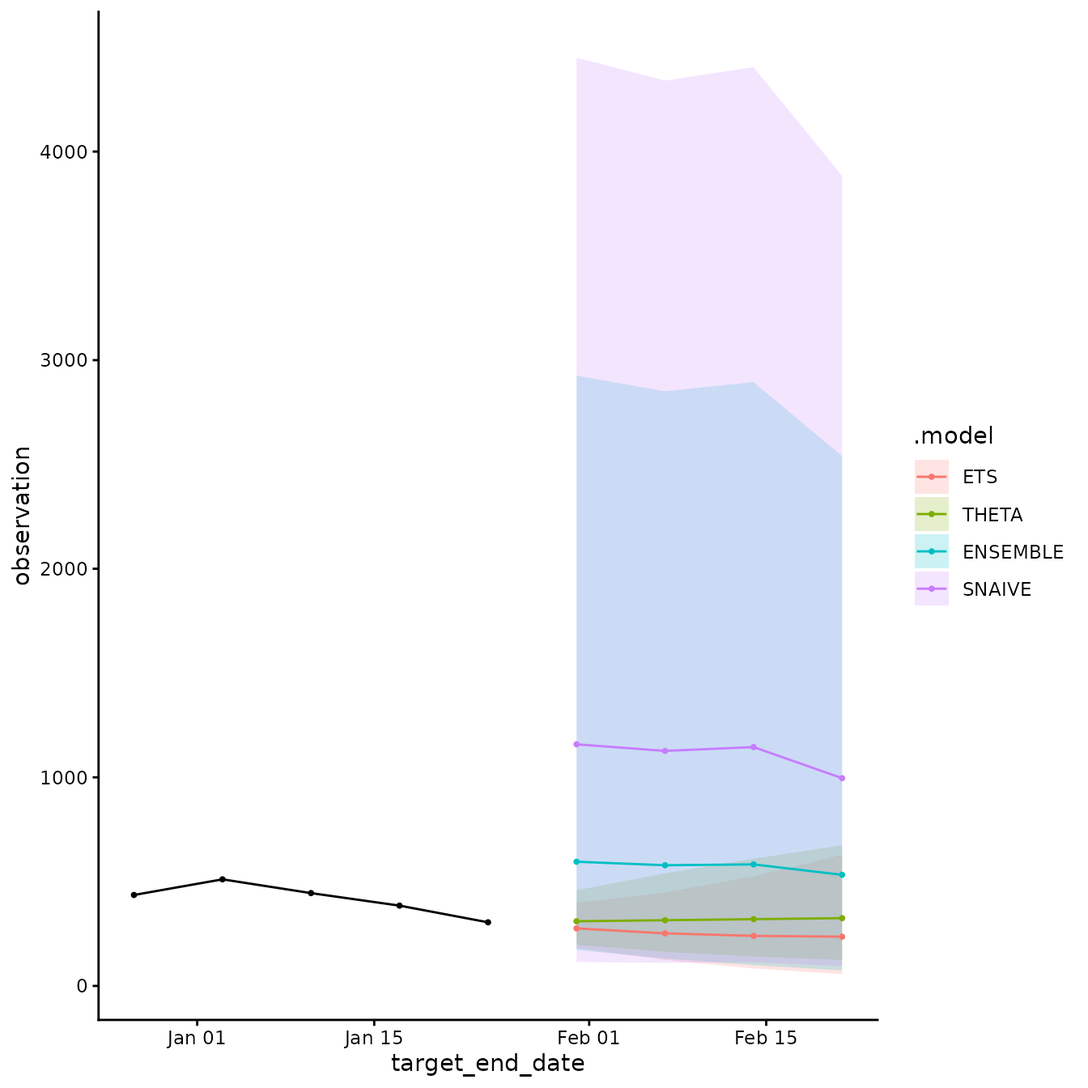
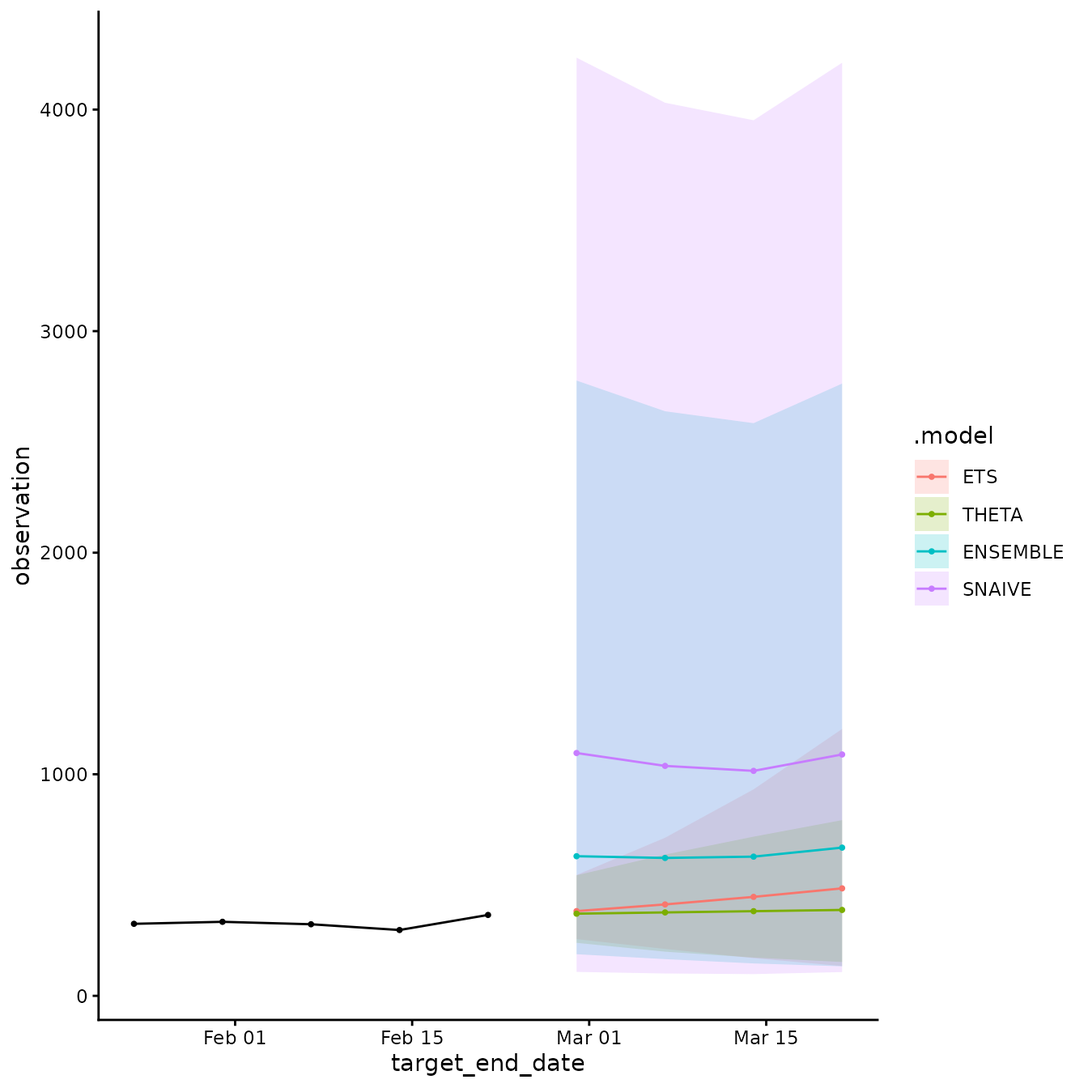
Deploying to gh-pages from @ ACCIDDA/acciddasuite@45f4608e82b950764b4ee29997958c1c10f59f7f 🚀

diff --git a/articles/acciddasuite.html b/articles/acciddasuite.html
@@ -104,21 +104,18 @@ National Health Safety Network</a>. The data dictionary is available <a href="ht
 <span><span class="kw"><a href="https://rdrr.io/r/base/library.html" class="external-link">library</a></span><span class="op">(</span><span class="va"><a href="https://cygei.github.io/pipetime/;" class="external-link">pipetime</a></span><span class="op">)</span></span>
 <span><span class="kw"><a href="https://rdrr.io/r/base/library.html" class="external-link">library</a></span><span class="op">(</span><span class="va"><a href="https://github.com/ACCIDDA/accidasuite" class="external-link">acciddasuite</a></span><span class="op">)</span></span>
 <span><span class="va">df</span> <span class="op">&lt;-</span> <span class="fu"><a href="../reference/get_data.html">get_data</a></span><span class="op">(</span>pathogen <span class="op">=</span> <span class="st">"covid"</span>, geo_values <span class="op">=</span> <span class="st">"ny"</span><span class="op">)</span></span>
-<span><span class="fu"><a href="https://rdrr.io/r/base/summary.html" class="external-link">summary</a></span><span class="op">(</span><span class="va">df</span><span class="op">)</span></span>
-<span><span class="co">#&gt;      as_of              location            target         </span></span>
-<span><span class="co">#&gt;  Min.   :2026-01-25   Length:286         Length:286        </span></span>
-<span><span class="co">#&gt;  1st Qu.:2026-01-25   Class :character   Class :character  </span></span>
-<span><span class="co">#&gt;  Median :2026-01-25   Mode  :character   Mode  :character  </span></span>
-<span><span class="co">#&gt;  Mean   :2026-01-25                                        </span></span>
-<span><span class="co">#&gt;  3rd Qu.:2026-01-25                                        </span></span>
-<span><span class="co">#&gt;  Max.   :2026-01-25                                        </span></span>
-<span><span class="co">#&gt;  target_end_date       observation     </span></span>
-<span><span class="co">#&gt;  Min.   :2020-08-08   Min.   :   60.0  </span></span>
-<span><span class="co">#&gt;  1st Qu.:2021-12-19   1st Qu.:  461.2  </span></span>
-<span><span class="co">#&gt;  Median :2023-05-02   Median :  995.0  </span></span>
-<span><span class="co">#&gt;  Mean   :2023-05-02   Mean   : 1644.0  </span></span>
-<span><span class="co">#&gt;  3rd Qu.:2024-09-12   3rd Qu.: 2241.8  </span></span>
-<span><span class="co">#&gt;  Max.   :2026-01-24   Max.   :11833.0</span></span></code></pre></div>
+<span><span class="fu"><a href="https://rdrr.io/r/utils/head.html" class="external-link">head</a></span><span class="op">(</span><span class="va">df</span><span class="op">)</span></span>
+<span><span class="co">#&gt; <span style="color: #949494;"># A tibble: 6 × 5</span></span></span>
+<span><span class="co">#&gt;   as_of      location target            target_end_date observation</span></span>
+<span><span class="co">#&gt;   <span style="color: #949494; font-style: italic;">&lt;date&gt;</span>     <span style="color: #949494; font-style: italic;">&lt;chr&gt;</span>    <span style="color: #949494; font-style: italic;">&lt;chr&gt;</span>             <span style="color: #949494; font-style: italic;">&lt;date&gt;</span>                <span style="color: #949494; font-style: italic;">&lt;dbl&gt;</span></span></span>
+<span><span class="co">#&gt; <span style="color: #BCBCBC;">1</span> 2026-02-22 NY       wk inc covid hosp 2020-08-08              517</span></span>
+<span><span class="co">#&gt; <span style="color: #BCBCBC;">2</span> 2026-02-22 NY       wk inc covid hosp 2020-08-15              490</span></span>
+<span><span class="co">#&gt; <span style="color: #BCBCBC;">3</span> 2026-02-22 NY       wk inc covid hosp 2020-08-22              844</span></span>
+<span><span class="co">#&gt; <span style="color: #BCBCBC;">4</span> 2026-02-22 NY       wk inc covid hosp 2020-08-29              483</span></span>
+<span><span class="co">#&gt; <span style="color: #BCBCBC;">5</span> 2026-02-22 NY       wk inc covid hosp 2020-09-05              479</span></span>
+<span><span class="co">#&gt; <span style="color: #BCBCBC;">6</span> 2026-02-22 NY       wk inc covid hosp 2020-09-12              573</span></span></code></pre></div>
+<p>To look at what <code>df</code> looks like, you can access the
+example <code>csv</code> file here: <a href="%22https://raw.githubusercontent.com/acciddasuite/main/example_data.csv%22" class="external-link">df.csv</a>.</p>
 </div>
 <div class="section level3">
 <h3 id="time-series-cross-validation">Time Series Cross-Validation<a class="anchor" aria-label="anchor" href="#time-series-cross-validation"></a>
@@ -174,14 +171,14 @@ Integrated Moving Average model (automatically selected).</p>
 <span><span class="co">#&gt; Models evaluated:</span></span>
 <span><span class="co">#&gt;  model_id       wis</span></span>
 <span><span class="co">#&gt;    &lt;char&gt;     &lt;num&gt;</span></span>
-<span><span class="co">#&gt;       ETS  39.50977</span></span>
-<span><span class="co">#&gt;     THETA  43.41059</span></span>
-<span><span class="co">#&gt;  ENSEMBLE  74.29495</span></span>
-<span><span class="co">#&gt;    SNAIVE 272.68963</span></span>
+<span><span class="co">#&gt;       ETS  31.84685</span></span>
+<span><span class="co">#&gt;     THETA  39.46278</span></span>
+<span><span class="co">#&gt;  ENSEMBLE  80.66361</span></span>
+<span><span class="co">#&gt;    SNAIVE 294.18118</span></span>
 <span><span class="co">#&gt; </span></span>
 <span><span class="co">#&gt; Forecast horizon:</span></span>
-<span><span class="co">#&gt;   From: 2025-12-27 </span></span>
-<span><span class="co">#&gt;   To:   2026-02-21 </span></span>
+<span><span class="co">#&gt;   From: 2026-01-24 </span></span>
+<span><span class="co">#&gt;   To:   2026-03-21 </span></span>
 <span><span class="co">#&gt; </span></span>
 <span><span class="co">#&gt; Contents:</span></span>
 <span><span class="co">#&gt;   $hubcast   hub forecast object</span></span>
@@ -195,21 +192,21 @@ Integrated Moving Average model (automatically selected).</p>
 <span><span class="co">#&gt; <span style="color: #949494;"># A tibble: 200 × 9</span></span></span>
 <span><span class="co">#&gt;    model_id reference_date target   horizon location target_end_date output_type</span></span>
 <span><span class="co">#&gt;    <span style="color: #949494; font-style: italic;">&lt;chr&gt;</span>    <span style="color: #949494; font-style: italic;">&lt;date&gt;</span>         <span style="color: #949494; font-style: italic;">&lt;chr&gt;</span>      <span style="color: #949494; font-style: italic;">&lt;int&gt;</span> <span style="color: #949494; font-style: italic;">&lt;chr&gt;</span>    <span style="color: #949494; font-style: italic;">&lt;date&gt;</span>          <span style="color: #949494; font-style: italic;">&lt;chr&gt;</span>      </span></span>
-<span><span class="co">#&gt; <span style="color: #BCBCBC;"> 1</span> ARIMA    2025-12-20     wk inc …       1 NY       2025-12-27      quantile   </span></span>
-<span><span class="co">#&gt; <span style="color: #BCBCBC;"> 2</span> ARIMA    2025-12-20     wk inc …       1 NY       2025-12-27      quantile   </span></span>
-<span><span class="co">#&gt; <span style="color: #BCBCBC;"> 3</span> ARIMA    2025-12-20     wk inc …       1 NY       2025-12-27      quantile   </span></span>
-<span><span class="co">#&gt; <span style="color: #BCBCBC;"> 4</span> ARIMA    2025-12-20     wk inc …       1 NY       2025-12-27      quantile   </span></span>
-<span><span class="co">#&gt; <span style="color: #BCBCBC;"> 5</span> ARIMA    2025-12-20     wk inc …       1 NY       2025-12-27      quantile   </span></span>
-<span><span class="co">#&gt; <span style="color: #BCBCBC;"> 6</span> ARIMA    2025-12-20     wk inc …       2 NY       2026-01-03      quantile   </span></span>
-<span><span class="co">#&gt; <span style="color: #BCBCBC;"> 7</span> ARIMA    2025-12-20     wk inc …       2 NY       2026-01-03      quantile   </span></span>
-<span><span class="co">#&gt; <span style="color: #BCBCBC;"> 8</span> ARIMA    2025-12-20     wk inc …       2 NY       2026-01-03      quantile   </span></span>
-<span><span class="co">#&gt; <span style="color: #BCBCBC;"> 9</span> ARIMA    2025-12-20     wk inc …       2 NY       2026-01-03      quantile   </span></span>
-<span><span class="co">#&gt; <span style="color: #BCBCBC;">10</span> ARIMA    2025-12-20     wk inc …       2 NY       2026-01-03      quantile   </span></span>
+<span><span class="co">#&gt; <span style="color: #BCBCBC;"> 1</span> ARIMA    2026-01-17     wk inc …       1 NY       2026-01-24      quantile   </span></span>
+<span><span class="co">#&gt; <span style="color: #BCBCBC;"> 2</span> ARIMA    2026-01-17     wk inc …       1 NY       2026-01-24      quantile   </span></span>
+<span><span class="co">#&gt; <span style="color: #BCBCBC;"> 3</span> ARIMA    2026-01-17     wk inc …       1 NY       2026-01-24      quantile   </span></span>
+<span><span class="co">#&gt; <span style="color: #BCBCBC;"> 4</span> ARIMA    2026-01-17     wk inc …       1 NY       2026-01-24      quantile   </span></span>
+<span><span class="co">#&gt; <span style="color: #BCBCBC;"> 5</span> ARIMA    2026-01-17     wk inc …       1 NY       2026-01-24      quantile   </span></span>
+<span><span class="co">#&gt; <span style="color: #BCBCBC;"> 6</span> ARIMA    2026-01-17     wk inc …       2 NY       2026-01-31      quantile   </span></span>
+<span><span class="co">#&gt; <span style="color: #BCBCBC;"> 7</span> ARIMA    2026-01-17     wk inc …       2 NY       2026-01-31      quantile   </span></span>
+<span><span class="co">#&gt; <span style="color: #BCBCBC;"> 8</span> ARIMA    2026-01-17     wk inc …       2 NY       2026-01-31      quantile   </span></span>
+<span><span class="co">#&gt; <span style="color: #BCBCBC;"> 9</span> ARIMA    2026-01-17     wk inc …       2 NY       2026-01-31      quantile   </span></span>
+<span><span class="co">#&gt; <span style="color: #BCBCBC;">10</span> ARIMA    2026-01-17     wk inc …       2 NY       2026-01-31      quantile   </span></span>
 <span><span class="co">#&gt; <span style="color: #949494;"># ℹ 190 more rows</span></span></span>
 <span><span class="co">#&gt; <span style="color: #949494;"># ℹ 2 more variables: output_type_id &lt;chr&gt;, value &lt;dbl&gt;</span></span></span>
 <span><span class="co">#&gt; </span></span>
 <span><span class="co">#&gt; $oracle_output</span></span>
-<span><span class="co">#&gt; <span style="color: #949494;"># A tibble: 286 × 6</span></span></span>
+<span><span class="co">#&gt; <span style="color: #949494;"># A tibble: 290 × 6</span></span></span>
 <span><span class="co">#&gt;    location target_end_date target       output_type output_type_id oracle_value</span></span>
 <span><span class="co">#&gt;    <span style="color: #949494; font-style: italic;">&lt;chr&gt;</span>    <span style="color: #949494; font-style: italic;">&lt;date&gt;</span>          <span style="color: #949494; font-style: italic;">&lt;chr&gt;</span>        <span style="color: #949494; font-style: italic;">&lt;chr&gt;</span>       <span style="color: #949494; font-style: italic;">&lt;lgl&gt;</span>                 <span style="color: #949494; font-style: italic;">&lt;dbl&gt;</span></span></span>
 <span><span class="co">#&gt; <span style="color: #BCBCBC;"> 1</span> NY       2020-08-08      wk inc covi… quantile    <span style="color: #BB0000;">NA</span>                      517</span></span>
@@ -222,21 +219,21 @@ Integrated Moving Average model (automatically selected).</p>
 <span><span class="co">#&gt; <span style="color: #BCBCBC;"> 8</span> NY       2020-09-26      wk inc covi… quantile    <span style="color: #BB0000;">NA</span>                      656</span></span>
 <span><span class="co">#&gt; <span style="color: #BCBCBC;"> 9</span> NY       2020-10-03      wk inc covi… quantile    <span style="color: #BB0000;">NA</span>                      851</span></span>
 <span><span class="co">#&gt; <span style="color: #BCBCBC;">10</span> NY       2020-10-10      wk inc covi… quantile    <span style="color: #BB0000;">NA</span>                      840</span></span>
-<span><span class="co">#&gt; <span style="color: #949494;"># ℹ 276 more rows</span></span></span>
+<span><span class="co">#&gt; <span style="color: #949494;"># ℹ 280 more rows</span></span></span>
 <span><span class="va">fcast</span><span class="op">$</span><span class="va">score</span></span>
 <span><span class="co">#&gt; Key: &lt;model_id&gt;</span></span>
 <span><span class="co">#&gt;    model_id       wis interval_coverage_50 interval_coverage_95</span></span>
 <span><span class="co">#&gt;      &lt;char&gt;     &lt;num&gt;                &lt;num&gt;                &lt;num&gt;</span></span>
-<span><span class="co">#&gt; 1:      ETS  39.50977                 1.00                    1</span></span>
-<span><span class="co">#&gt; 2:    THETA  43.41059                 0.50                    1</span></span>
-<span><span class="co">#&gt; 3: ENSEMBLE  74.29495                 1.00                    1</span></span>
-<span><span class="co">#&gt; 4:   SNAIVE 272.68963                 0.25                    1</span></span>
+<span><span class="co">#&gt; 1:      ETS  31.84685                 0.75                    1</span></span>
+<span><span class="co">#&gt; 2:    THETA  39.46278                 0.75                    1</span></span>
+<span><span class="co">#&gt; 3: ENSEMBLE  80.66361                 0.75                    1</span></span>
+<span><span class="co">#&gt; 4:   SNAIVE 294.18118                 0.00                    1</span></span>
 <span><span class="co">#&gt;    wis_relative_skill</span></span>
 <span><span class="co">#&gt;                 &lt;num&gt;</span></span>
-<span><span class="co">#&gt; 1:          0.5146032</span></span>
-<span><span class="co">#&gt; 2:          0.5654102</span></span>
-<span><span class="co">#&gt; 3:          0.9676700</span></span>
-<span><span class="co">#&gt; 4:          3.5517025</span></span></code></pre></div>
+<span><span class="co">#&gt; 1:          0.4309529</span></span>
+<span><span class="co">#&gt; 2:          0.5340120</span></span>
+<span><span class="co">#&gt; 3:          1.0915433</span></span>
+<span><span class="co">#&gt; 4:          3.9808719</span></span></code></pre></div>
 </div>
 <div class="section level3">
 <h3 id="adding-extra_models">Adding <code>extra_models</code><a class="anchor" aria-label="anchor" href="#adding-extra_models"></a>
@@ -269,18 +266,18 @@ documentation</a> for more information).</p>
 <span><span class="co">#&gt; &lt;accida_cast&gt;</span></span>
 <span><span class="co">#&gt; </span></span>
 <span><span class="co">#&gt; Models evaluated:</span></span>
-<span><span class="co">#&gt;      model_id        wis</span></span>
-<span><span class="co">#&gt;        &lt;char&gt;      &lt;num&gt;</span></span>
-<span><span class="co">#&gt;           ETS   32.52275</span></span>
-<span><span class="co">#&gt;         THETA   47.36624</span></span>
-<span><span class="co">#&gt;      ENSEMBLE   79.89596</span></span>
-<span><span class="co">#&gt;  CUSTOM_ARIMA  126.93577</span></span>
-<span><span class="co">#&gt;        SNAIVE  268.02628</span></span>
-<span><span class="co">#&gt;       PROPHET 1664.07816</span></span>
+<span><span class="co">#&gt;      model_id       wis</span></span>
+<span><span class="co">#&gt;        &lt;char&gt;     &lt;num&gt;</span></span>
+<span><span class="co">#&gt;           ETS  28.32143</span></span>
+<span><span class="co">#&gt;         THETA  36.47991</span></span>
+<span><span class="co">#&gt;      ENSEMBLE  88.81132</span></span>
+<span><span class="co">#&gt;  CUSTOM_ARIMA 155.76232</span></span>
+<span><span class="co">#&gt;        SNAIVE 288.46068</span></span>
+<span><span class="co">#&gt;       PROPHET 683.99907</span></span>
 <span><span class="co">#&gt; </span></span>
 <span><span class="co">#&gt; Forecast horizon:</span></span>
-<span><span class="co">#&gt;   From: 2025-12-27 </span></span>
-<span><span class="co">#&gt;   To:   2026-02-14 </span></span>
+<span><span class="co">#&gt;   From: 2026-01-24 </span></span>
+<span><span class="co">#&gt;   To:   2026-03-14 </span></span>
 <span><span class="co">#&gt; </span></span>
 <span><span class="co">#&gt; Contents:</span></span>
 <span><span class="co">#&gt;   $hubcast   hub forecast object</span></span>

diff --git a/reference/get_data.html b/reference/get_data.html
@@ -81,20 +81,20 @@ for COVID-19, influenza, or RSV using <a href="https://cmu-delphi.github.io/epid
 <span class="r-wrn co"><span class="r-pr">#&gt;</span> limits if you proceed.</span>
 <span class="r-wrn co"><span class="r-pr">#&gt;</span> <span style="color: #00BBBB;">ℹ</span> See `?save_api_key()` for details on obtaining and setting API keys.</span>
 <span class="r-wrn co"><span class="r-pr">#&gt;</span> <span style="color: #555555;">This warning is displayed once every 8 hours.</span></span>
-<span class="r-out co"><span class="r-pr">#&gt;</span> <span style="color: #949494;"># A tibble: 572 × 5</span></span>
+<span class="r-out co"><span class="r-pr">#&gt;</span> <span style="color: #949494;"># A tibble: 580 × 5</span></span>
 <span class="r-out co"><span class="r-pr">#&gt;</span>    as_of      location target            target_end_date observation</span>
 <span class="r-out co"><span class="r-pr">#&gt;</span>    <span style="color: #949494; font-style: italic;">&lt;date&gt;</span>     <span style="color: #949494; font-style: italic;">&lt;chr&gt;</span>    <span style="color: #949494; font-style: italic;">&lt;chr&gt;</span>             <span style="color: #949494; font-style: italic;">&lt;date&gt;</span>                <span style="color: #949494; font-style: italic;">&lt;dbl&gt;</span></span>
-<span class="r-out co"><span class="r-pr">#&gt;</span> <span style="color: #BCBCBC;"> 1</span> 2026-01-25 CA       wk inc covid hosp 2020-08-08             <span style="text-decoration: underline;">4</span>836</span>
-<span class="r-out co"><span class="r-pr">#&gt;</span> <span style="color: #BCBCBC;"> 2</span> 2026-01-25 NY       wk inc covid hosp 2020-08-08              517</span>
-<span class="r-out co"><span class="r-pr">#&gt;</span> <span style="color: #BCBCBC;"> 3</span> 2026-01-25 CA       wk inc covid hosp 2020-08-15             <span style="text-decoration: underline;">4</span>273</span>
-<span class="r-out co"><span class="r-pr">#&gt;</span> <span style="color: #BCBCBC;"> 4</span> 2026-01-25 NY       wk inc covid hosp 2020-08-15              490</span>
-<span class="r-out co"><span class="r-pr">#&gt;</span> <span style="color: #BCBCBC;"> 5</span> 2026-01-25 CA       wk inc covid hosp 2020-08-22             <span style="text-decoration: underline;">3</span>498</span>
-<span class="r-out co"><span class="r-pr">#&gt;</span> <span style="color: #BCBCBC;"> 6</span> 2026-01-25 NY       wk inc covid hosp 2020-08-22              844</span>
-<span class="r-out co"><span class="r-pr">#&gt;</span> <span style="color: #BCBCBC;"> 7</span> 2026-01-25 CA       wk inc covid hosp 2020-08-29             <span style="text-decoration: underline;">3</span>100</span>
-<span class="r-out co"><span class="r-pr">#&gt;</span> <span style="color: #BCBCBC;"> 8</span> 2026-01-25 NY       wk inc covid hosp 2020-08-29              483</span>
-<span class="r-out co"><span class="r-pr">#&gt;</span> <span style="color: #BCBCBC;"> 9</span> 2026-01-25 CA       wk inc covid hosp 2020-09-05             <span style="text-decoration: underline;">2</span>888</span>
-<span class="r-out co"><span class="r-pr">#&gt;</span> <span style="color: #BCBCBC;">10</span> 2026-01-25 NY       wk inc covid hosp 2020-09-05              479</span>
-<span class="r-out co"><span class="r-pr">#&gt;</span> <span style="color: #949494;"># ℹ 562 more rows</span></span>
+<span class="r-out co"><span class="r-pr">#&gt;</span> <span style="color: #BCBCBC;"> 1</span> 2026-02-22 CA       wk inc covid hosp 2020-08-08             <span style="text-decoration: underline;">4</span>836</span>
+<span class="r-out co"><span class="r-pr">#&gt;</span> <span style="color: #BCBCBC;"> 2</span> 2026-02-22 NY       wk inc covid hosp 2020-08-08              517</span>
+<span class="r-out co"><span class="r-pr">#&gt;</span> <span style="color: #BCBCBC;"> 3</span> 2026-02-22 CA       wk inc covid hosp 2020-08-15             <span style="text-decoration: underline;">4</span>273</span>
+<span class="r-out co"><span class="r-pr">#&gt;</span> <span style="color: #BCBCBC;"> 4</span> 2026-02-22 NY       wk inc covid hosp 2020-08-15              490</span>
+<span class="r-out co"><span class="r-pr">#&gt;</span> <span style="color: #BCBCBC;"> 5</span> 2026-02-22 CA       wk inc covid hosp 2020-08-22             <span style="text-decoration: underline;">3</span>498</span>
+<span class="r-out co"><span class="r-pr">#&gt;</span> <span style="color: #BCBCBC;"> 6</span> 2026-02-22 NY       wk inc covid hosp 2020-08-22              844</span>
+<span class="r-out co"><span class="r-pr">#&gt;</span> <span style="color: #BCBCBC;"> 7</span> 2026-02-22 CA       wk inc covid hosp 2020-08-29             <span style="text-decoration: underline;">3</span>100</span>
+<span class="r-out co"><span class="r-pr">#&gt;</span> <span style="color: #BCBCBC;"> 8</span> 2026-02-22 NY       wk inc covid hosp 2020-08-29              483</span>
+<span class="r-out co"><span class="r-pr">#&gt;</span> <span style="color: #BCBCBC;"> 9</span> 2026-02-22 CA       wk inc covid hosp 2020-09-05             <span style="text-decoration: underline;">2</span>888</span>
+<span class="r-out co"><span class="r-pr">#&gt;</span> <span style="color: #BCBCBC;">10</span> 2026-02-22 NY       wk inc covid hosp 2020-09-05              479</span>
+<span class="r-out co"><span class="r-pr">#&gt;</span> <span style="color: #949494;"># ℹ 570 more rows</span></span>
 </code></pre></div>
     </div>
   </main><aside class="col-md-3"><nav id="toc" aria-label="Table of contents"><h2>On this page</h2>

diff --git a/articles/acciddasuite.md b/articles/acciddasuite.md
@@ -40,22 +40,20 @@ library(ggplot2)
 library(pipetime)
 library(acciddasuite)
 df <- get_data(pathogen = "covid", geo_values = "ny")
-summary(df)
-#>      as_of              location            target         
-#>  Min.   :2026-01-25   Length:286         Length:286        
-#>  1st Qu.:2026-01-25   Class :character   Class :character  
-#>  Median :2026-01-25   Mode  :character   Mode  :character  
-#>  Mean   :2026-01-25                                        
-#>  3rd Qu.:2026-01-25                                        
-#>  Max.   :2026-01-25                                        
-#>  target_end_date       observation     
-#>  Min.   :2020-08-08   Min.   :   60.0  
-#>  1st Qu.:2021-12-19   1st Qu.:  461.2  
-#>  Median :2023-05-02   Median :  995.0  
-#>  Mean   :2023-05-02   Mean   : 1644.0  
-#>  3rd Qu.:2024-09-12   3rd Qu.: 2241.8  
-#>  Max.   :2026-01-24   Max.   :11833.0
+head(df)
+#> # A tibble: 6 × 5
+#>   as_of      location target            target_end_date observation
+#>   <date>     <chr>    <chr>             <date>                <dbl>
+#> 1 2026-02-22 NY       wk inc covid hosp 2020-08-08              517
+#> 2 2026-02-22 NY       wk inc covid hosp 2020-08-15              490
+#> 3 2026-02-22 NY       wk inc covid hosp 2020-08-22              844
+#> 4 2026-02-22 NY       wk inc covid hosp 2020-08-29              483
+#> 5 2026-02-22 NY       wk inc covid hosp 2020-09-05              479
+#> 6 2026-02-22 NY       wk inc covid hosp 2020-09-12              573
 ```
+
+To look at what `df` looks like, you can access the example `csv` file
+here: [df.csv](NA).
 
 ### Time Series Cross-Validation
 
@@ -115,14 +113,14 @@ fcast
 #> Models evaluated:
 #>  model_id       wis
 #>    <char>     <num>
-#>       ETS  39.50977
-#>     THETA  43.41059
-#>  ENSEMBLE  74.29495
-#>    SNAIVE 272.68963
+#>       ETS  31.84685
+#>     THETA  39.46278
+#>  ENSEMBLE  80.66361
+#>    SNAIVE 294.18118
 #> 
 #> Forecast horizon:
-#>   From: 2025-12-27 
-#>   To:   2026-02-21 
+#>   From: 2026-01-24 
+#>   To:   2026-03-21 
 #> 
 #> Contents:
 #>   $hubcast   hub forecast object
@@ -139,21 +137,21 @@ fcast$hubcast
 #> # A tibble: 200 × 9
 #>    model_id reference_date target   horizon location target_end_date output_type
 #>    <chr>    <date>         <chr>      <int> <chr>    <date>          <chr>      
-#>  1 ARIMA    2025-12-20     wk inc …       1 NY       2025-12-27      quantile   
-#>  2 ARIMA    2025-12-20     wk inc …       1 NY       2025-12-27      quantile   
-#>  3 ARIMA    2025-12-20     wk inc …       1 NY       2025-12-27      quantile   
-#>  4 ARIMA    2025-12-20     wk inc …       1 NY       2025-12-27      quantile   
-#>  5 ARIMA    2025-12-20     wk inc …       1 NY       2025-12-27      quantile   
-#>  6 ARIMA    2025-12-20     wk inc …       2 NY       2026-01-03      quantile   
-#>  7 ARIMA    2025-12-20     wk inc …       2 NY       2026-01-03      quantile   
-#>  8 ARIMA    2025-12-20     wk inc …       2 NY       2026-01-03      quantile   
-#>  9 ARIMA    2025-12-20     wk inc …       2 NY       2026-01-03      quantile   
-#> 10 ARIMA    2025-12-20     wk inc …       2 NY       2026-01-03      quantile   
+#>  1 ARIMA    2026-01-17     wk inc …       1 NY       2026-01-24      quantile   
+#>  2 ARIMA    2026-01-17     wk inc …       1 NY       2026-01-24      quantile   
+#>  3 ARIMA    2026-01-17     wk inc …       1 NY       2026-01-24      quantile   
+#>  4 ARIMA    2026-01-17     wk inc …       1 NY       2026-01-24      quantile   
+#>  5 ARIMA    2026-01-17     wk inc …       1 NY       2026-01-24      quantile   
+#>  6 ARIMA    2026-01-17     wk inc …       2 NY       2026-01-31      quantile   
+#>  7 ARIMA    2026-01-17     wk inc …       2 NY       2026-01-31      quantile   
+#>  8 ARIMA    2026-01-17     wk inc …       2 NY       2026-01-31      quantile   
+#>  9 ARIMA    2026-01-17     wk inc …       2 NY       2026-01-31      quantile   
+#> 10 ARIMA    2026-01-17     wk inc …       2 NY       2026-01-31      quantile   
 #> # ℹ 190 more rows
 #> # ℹ 2 more variables: output_type_id <chr>, value <dbl>
 #> 
 #> $oracle_output
-#> # A tibble: 286 × 6
+#> # A tibble: 290 × 6
 #>    location target_end_date target       output_type output_type_id oracle_value
 #>    <chr>    <date>          <chr>        <chr>       <lgl>                 <dbl>
 #>  1 NY       2020-08-08      wk inc covi… quantile    NA                      517
@@ -166,21 +164,21 @@ fcast$hubcast
 #>  8 NY       2020-09-26      wk inc covi… quantile    NA                      656
 #>  9 NY       2020-10-03      wk inc covi… quantile    NA                      851
 #> 10 NY       2020-10-10      wk inc covi… quantile    NA                      840
-#> # ℹ 276 more rows
+#> # ℹ 280 more rows
 fcast$score
 #> Key: <model_id>
 #>    model_id       wis interval_coverage_50 interval_coverage_95
 #>      <char>     <num>                <num>                <num>
-#> 1:      ETS  39.50977                 1.00                    1
-#> 2:    THETA  43.41059                 0.50                    1
-#> 3: ENSEMBLE  74.29495                 1.00                    1
-#> 4:   SNAIVE 272.68963                 0.25                    1
+#> 1:      ETS  31.84685                 0.75                    1
+#> 2:    THETA  39.46278                 0.75                    1
+#> 3: ENSEMBLE  80.66361                 0.75                    1
+#> 4:   SNAIVE 294.18118                 0.00                    1
 #>    wis_relative_skill
 #>                 <num>
-#> 1:          0.5146032
-#> 2:          0.5654102
-#> 3:          0.9676700
-#> 4:          3.5517025
+#> 1:          0.4309529
+#> 2:          0.5340120
+#> 3:          1.0915433
+#> 4:          3.9808719
 ```
 
 ### Adding `extra_models`
@@ -216,18 +214,18 @@ fcast
 #> <accida_cast>
 #> 
 #> Models evaluated:
-#>      model_id        wis
-#>        <char>      <num>
-#>           ETS   32.52275
-#>         THETA   47.36624
-#>      ENSEMBLE   79.89596
-#>  CUSTOM_ARIMA  126.93577
-#>        SNAIVE  268.02628
-#>       PROPHET 1664.07816
+#>      model_id       wis
+#>        <char>     <num>
+#>           ETS  28.32143
+#>         THETA  36.47991
+#>      ENSEMBLE  88.81132
+#>  CUSTOM_ARIMA 155.76232
+#>        SNAIVE 288.46068
+#>       PROPHET 683.99907
 #> 
 #> Forecast horizon:
-#>   From: 2025-12-27 
-#>   To:   2026-02-14 
+#>   From: 2026-01-24 
+#>   To:   2026-03-14 
 #> 
 #> Contents:
 #>   $hubcast   hub forecast object

diff --git a/reference/get_data.md b/reference/get_data.md
@@ -50,18 +50,18 @@ get_data(pathogen = "covid", geo_values = c("ca", "ny"))
 #> limits if you proceed.
 #> ℹ See `?save_api_key()` for details on obtaining and setting API keys.
 #> This warning is displayed once every 8 hours.
-#> # A tibble: 572 × 5
+#> # A tibble: 580 × 5
 #>    as_of      location target            target_end_date observation
 #>    <date>     <chr>    <chr>             <date>                <dbl>
-#>  1 2026-01-25 CA       wk inc covid hosp 2020-08-08             4836
-#>  2 2026-01-25 NY       wk inc covid hosp 2020-08-08              517
-#>  3 2026-01-25 CA       wk inc covid hosp 2020-08-15             4273
-#>  4 2026-01-25 NY       wk inc covid hosp 2020-08-15              490
-#>  5 2026-01-25 CA       wk inc covid hosp 2020-08-22             3498
-#>  6 2026-01-25 NY       wk inc covid hosp 2020-08-22              844
-#>  7 2026-01-25 CA       wk inc covid hosp 2020-08-29             3100
-#>  8 2026-01-25 NY       wk inc covid hosp 2020-08-29              483
-#>  9 2026-01-25 CA       wk inc covid hosp 2020-09-05             2888
-#> 10 2026-01-25 NY       wk inc covid hosp 2020-09-05              479
-#> # ℹ 562 more rows
+#>  1 2026-02-22 CA       wk inc covid hosp 2020-08-08             4836
+#>  2 2026-02-22 NY       wk inc covid hosp 2020-08-08              517
+#>  3 2026-02-22 CA       wk inc covid hosp 2020-08-15             4273
+#>  4 2026-02-22 NY       wk inc covid hosp 2020-08-15              490
+#>  5 2026-02-22 CA       wk inc covid hosp 2020-08-22             3498
+#>  6 2026-02-22 NY       wk inc covid hosp 2020-08-22              844
+#>  7 2026-02-22 CA       wk inc covid hosp 2020-08-29             3100
+#>  8 2026-02-22 NY       wk inc covid hosp 2020-08-29              483
+#>  9 2026-02-22 CA       wk inc covid hosp 2020-09-05             2888
+#> 10 2026-02-22 NY       wk inc covid hosp 2020-09-05              479
+#> # ℹ 570 more rows
 ```
